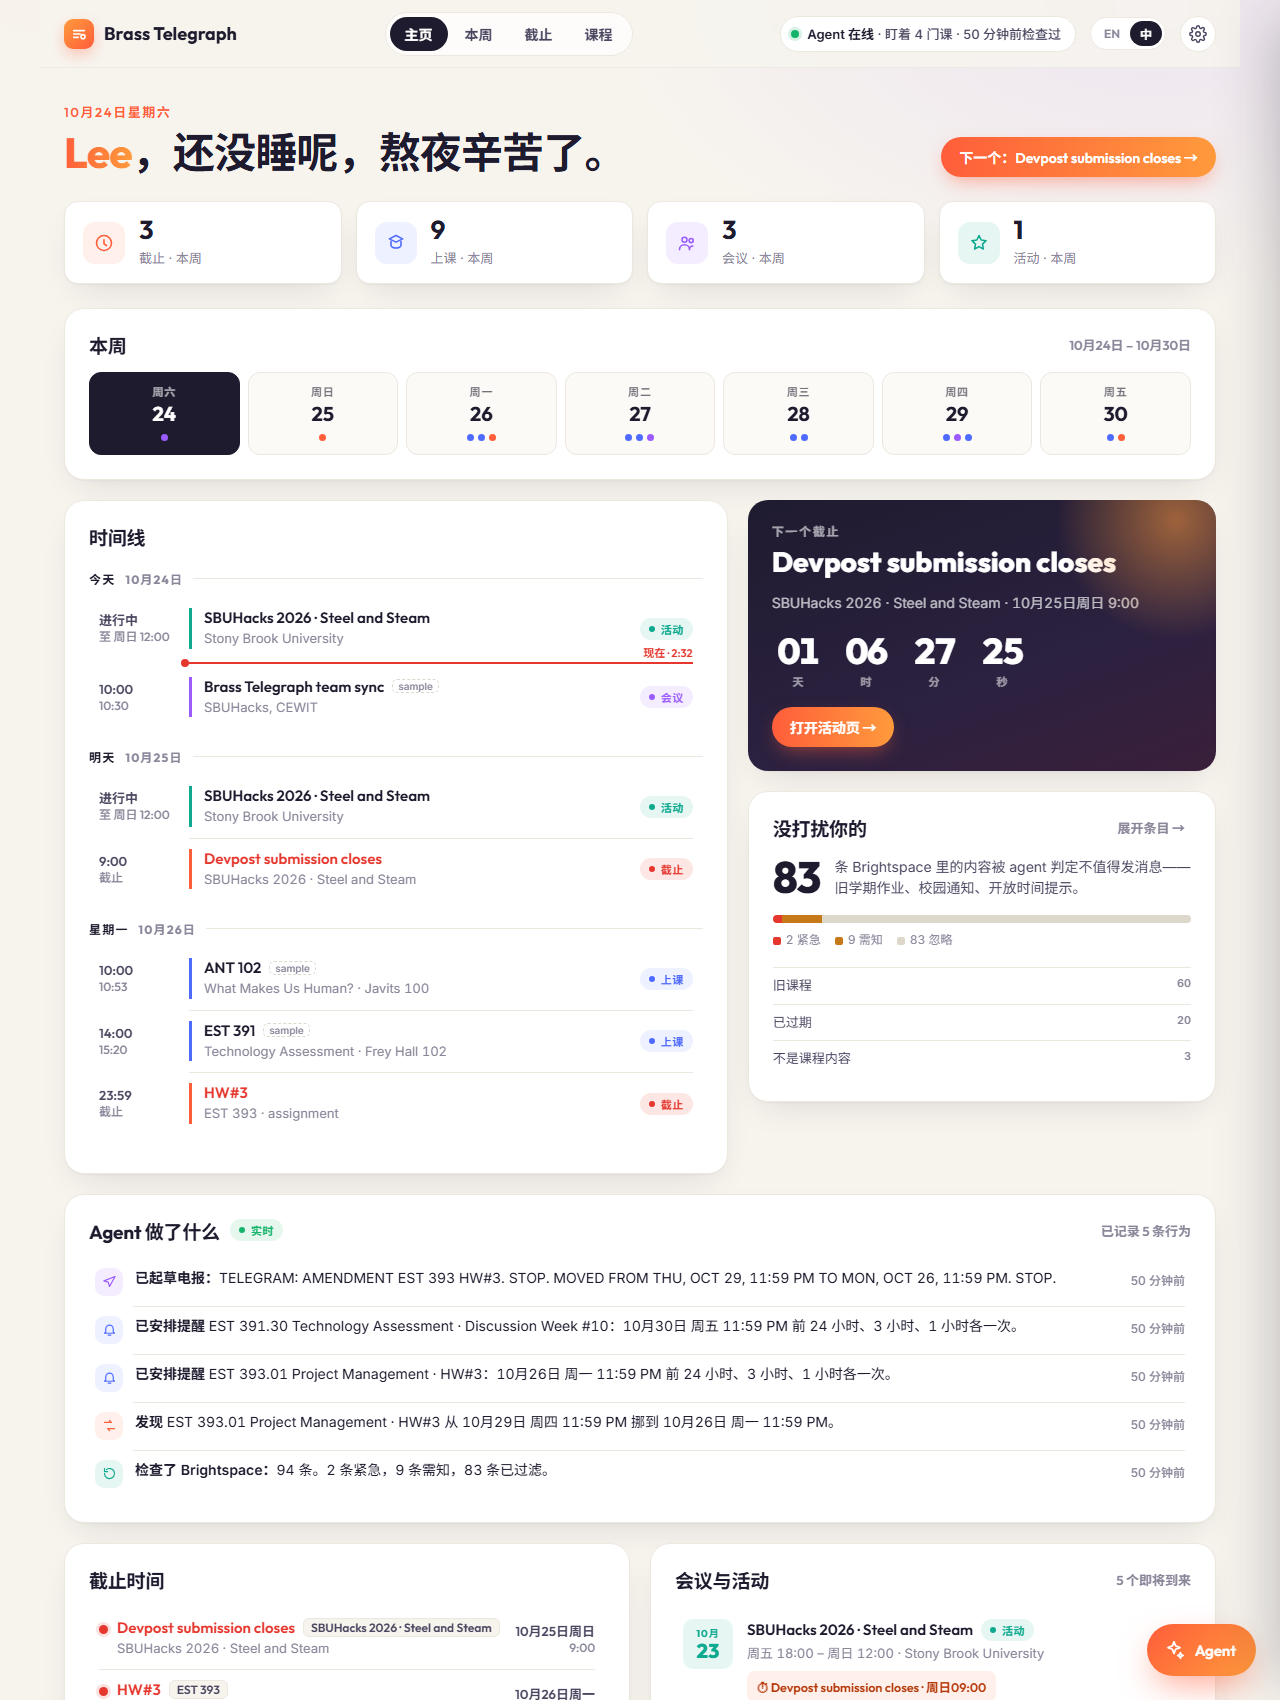
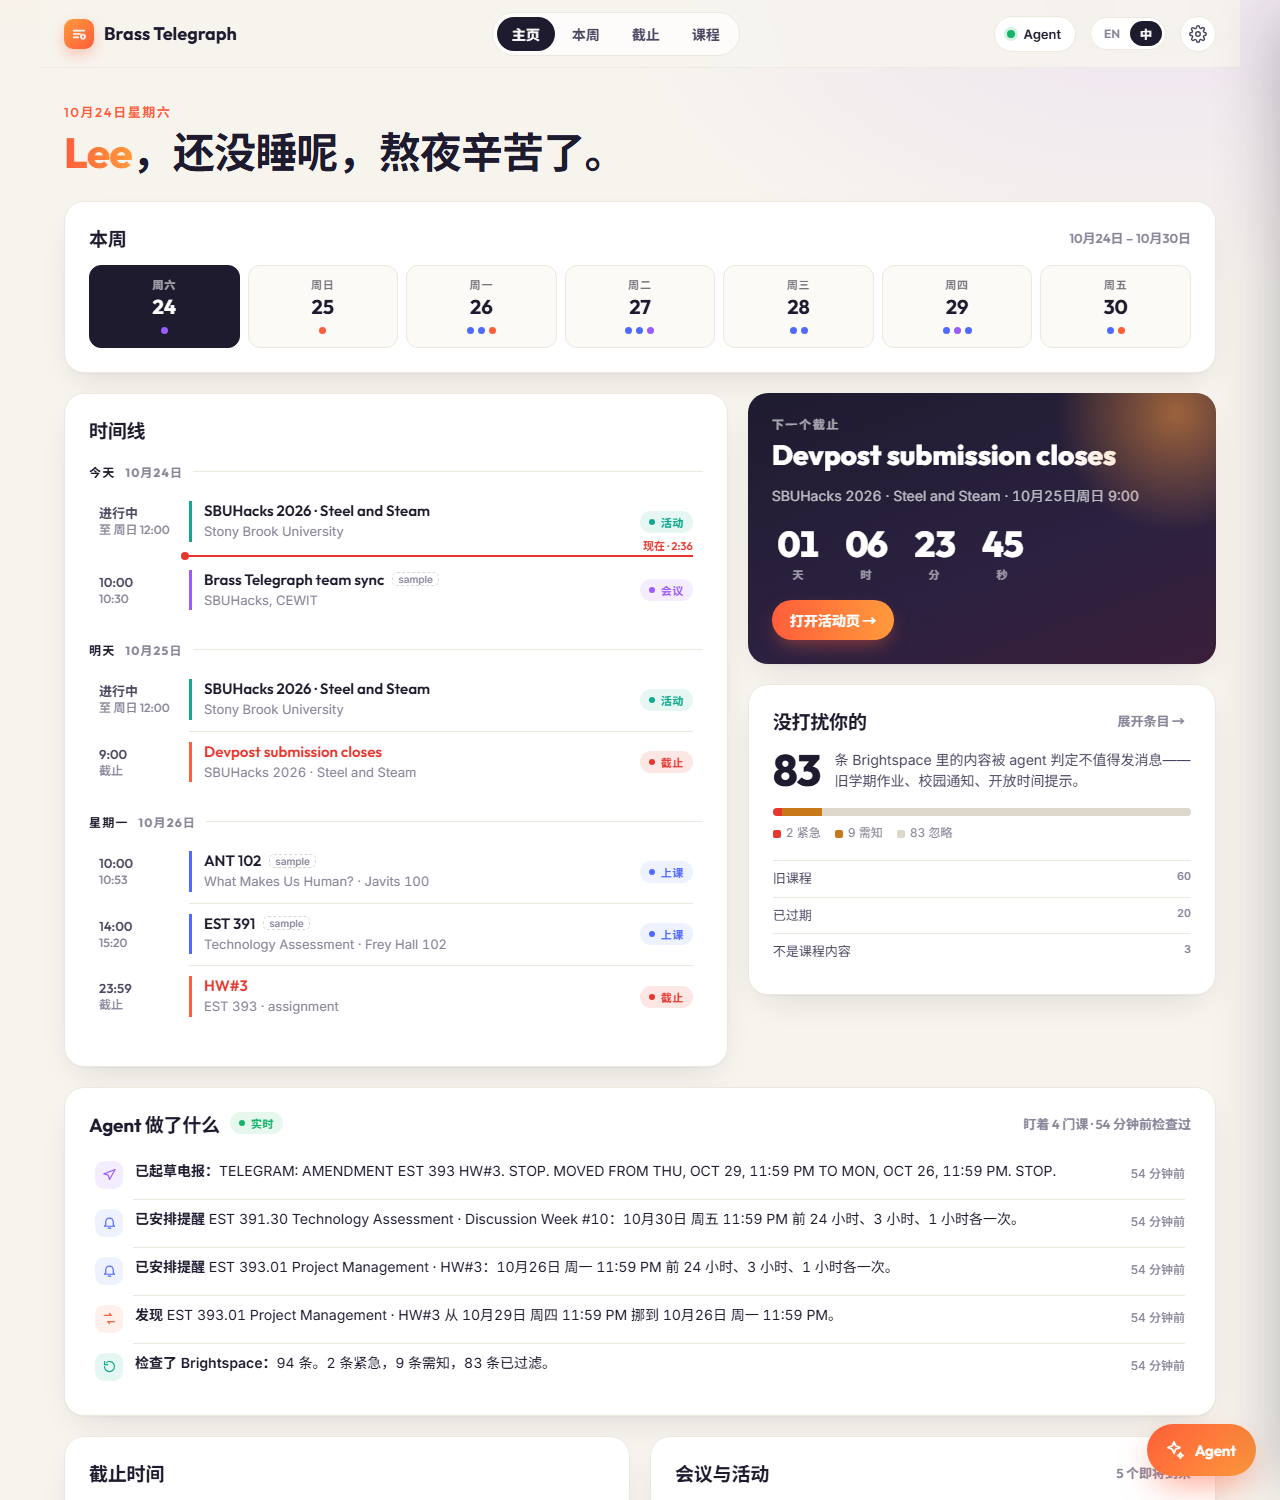
Stats move to Week tab, drop next button, minimal agent pill, per-course view, home deadlines = this week

diff --git a/web/index.html b/web/index.html
@@ -41,7 +41,7 @@ textarea, input { font-family: var(--sans); }
 .tab { padding: 7px 15px; border-radius: 999px; font: 600 14px var(--disp); color: var(--ink-2); transition: background .15s, color .15s; }
 .tab:hover { color: var(--ink); }
 .tab.on { background: var(--ink); color: #fff; }
-.status { display: inline-flex; align-items: center; gap: 8px; height: 36px; padding: 0 14px 0 10px; border-radius: 999px; background: #fff; border: 1px solid var(--line); font: 500 13px var(--sans); color: var(--ink-2); white-space: nowrap; }
+.status { display: inline-flex; align-items: center; gap: 8px; height: 36px; padding: 0 14px 0 12px; border-radius: 999px; background: #fff; border: 1px solid var(--line); font: 500 13px var(--sans); color: var(--ink-2); white-space: nowrap; cursor: default; }
 .status i { width: 8px; height: 8px; border-radius: 50%; background: var(--ok); box-shadow: 0 0 0 3px rgba(22,179,106,.18); animation: pulse-g 2s ease-in-out infinite; }
 .status.off i { background: var(--need); box-shadow: 0 0 0 3px rgba(199,121,26,.18); animation: none; }
 @keyframes pulse-g { 50% { box-shadow: 0 0 0 6px rgba(22,179,106,0); } }
@@ -263,13 +263,26 @@ textarea, input { font-family: var(--sans); }
 .legend .g { border: 1.5px dashed var(--ink-2); background: none; }
 
 /* courses */
-.courses { display: grid; grid-template-columns: repeat(auto-fill, minmax(260px, 1fr)); gap: 14px; }
-.course { padding: 18px; border-radius: var(--r-sm); border: 1px solid var(--line); background: var(--bg-2); }
-.course h3 { font: 700 17px var(--disp); }
-.course p { margin: 2px 0 12px; color: var(--muted); font-size: 13px; }
-.course .next { font-size: 13.5px; color: var(--ink-2); }
-.course .next b { color: var(--ink); font-weight: 600; }
-.course .n { float: right; font: 700 20px var(--disp); color: var(--accent); }
+.courses { display: grid; grid-template-columns: repeat(auto-fill, minmax(320px, 1fr)); gap: 16px; }
+.course { padding: 20px; border-radius: var(--r-sm); border: 1px solid var(--line); background: var(--bg-2); display: flex; flex-direction: column; gap: 12px; }
+.course-h { display: flex; align-items: flex-start; justify-content: space-between; gap: 12px; }
+.course h3 { font: 700 20px var(--disp); }
+.course p { margin: 2px 0 0; color: var(--muted); font-size: 13px; }
+.course .n { min-width: 34px; height: 34px; padding: 0 10px; border-radius: 17px; display: grid; place-items: center; font: 700 15px var(--disp); color: var(--accent); background: var(--deadline-bg); }
+.course-meta { display: flex; flex-direction: column; gap: 6px; font-size: 13px; color: var(--ink-2); }
+.course-meta span { display: inline-flex; align-items: center; gap: 6px; }
+.course-meta svg { color: var(--c, var(--class)); }
+.course-meta [data-kind="meeting"] svg { color: var(--meeting); }
+.course-dl { display: flex; flex-direction: column; border-top: 1px solid var(--line); }
+.cdl { display: grid; grid-template-columns: 14px 1fr auto; align-items: center; gap: 10px; padding: 9px 0; border-bottom: 1px solid var(--line); font-size: 14px; }
+.cdl:last-child { border-bottom: 0; }
+.cdl i { width: 8px; height: 8px; border-radius: 50%; background: var(--line-2); }
+.cdl.urgent i { background: var(--urgent); } .cdl.urgent span { color: var(--urgent); }
+.cdl span { font: 600 14px var(--disp); min-width: 0; } .cdl span small { display: block; font: 400 12px var(--sans); color: var(--muted); }
+.cdl b { text-align: right; font: 600 13px var(--disp); color: var(--ink-2); } .cdl b small { display: block; font: 400 11.5px var(--sans); color: var(--muted); }
+.cdl:hover span { text-decoration: underline; }
+.course-foot { margin: 0; font-size: 12.5px; color: var(--muted); }
+.muted { color: var(--muted); font-size: 13px; margin: 0; }
 
 /* setup */
 .steps { display: grid; gap: 10px; margin: 6px 0 16px; counter-reset: s; }
@@ -384,10 +397,7 @@ body.drawer-open .drawer { transform: none; } body.drawer-open .scrim { opacity:
       <h1 id="greeting"></h1>
       <p id="summary"></p>
     </div>
-    <a class="btn" href="#" id="openNext" target="_blank" rel="noopener"></a>
   </section>
-
-  <div class="stats" id="stats"></div>
 
   <section class="view" id="view-today">
     <div class="grid">
@@ -404,6 +414,7 @@ body.drawer-open .drawer { transform: none; } body.drawer-open .scrim { opacity:
   </section>
 
   <section class="view" id="view-week" hidden>
+    <div class="stats" id="stats"></div>
     <div class="card"><div class="card-h"><h2 data-i18n="h.weekview">Week view</h2><span class="more" id="weekRange2"></span></div><div class="wkwrap" id="wkwrap"><div class="wk" id="wk"></div></div>
       <div class="legend" id="legend"></div></div>
   </section>
@@ -497,7 +508,7 @@ const I18N = {
     "feed.n": "{n} actions logged", "quiet.text": "items in your Brightspace feed the agent judged not worth a message — old-semester work, campus notices, availability windows.", "quiet.show": "Show items →", "quiet.hide": "Hide ↑", "quiet.more": "…and {n} more",
     "q.urgent": "urgent", "q.need": "need-to-know", "q.ignore": "ignored",
     "ag.n": "{n} upcoming", "ag.flag": "⚠ Overlaps {t} — agent flagged this", "mile": "⏱ {t}",
-    "legend.sugg": "Agent suggestion — click to accept", "wk.sugg": "suggested", "course.next": "Next:",
+    "legend.sugg": "Agent suggestion — click to accept", "wk.sugg": "suggested", "course.next": "Next:", "course.notime": "No class time yet — tell the agent", "course.nodue": "Nothing due", "course.ignored": "{n} old or past items filtered out",
     "sugg.title": "Work on {t}", "sugg.note": "Agent suggestion · 2 h before it's due {d}",
     "ans.start": "Start with <b>{t}</b> ({c}) — {r}. Then {rest}.", "ans.clear": "you're clear", "ans.none": "Nothing is due — you're clear.", "ans.by": "<b>{t}</b> by {d}",
     "ans.free": "I found {n} free 2-hour slots before your deadlines, e.g. <b>{d}</b> for {t}. They're the dashed blocks in Week view — click to accept.", "ans.nofree": "No free 2-hour slots found before the next deadlines.",
@@ -539,7 +550,7 @@ const I18N = {
     "feed.n": "已记录 {n} 条行为", "quiet.text": "条 Brightspace 里的内容被 agent 判定不值得发消息——旧学期作业、校园通知、开放时间提示。", "quiet.show": "展开条目 →", "quiet.hide": "收起 ↑", "quiet.more": "…还有 {n} 条",
     "q.urgent": "紧急", "q.need": "需知", "q.ignore": "忽略",
     "ag.n": "{n} 个即将到来", "ag.flag": "⚠ 与 {t} 重叠——agent 已标记", "mile": "⏱ {t}",
-    "legend.sugg": "Agent 建议——点击接受", "wk.sugg": "建议", "course.next": "下一个：",
+    "legend.sugg": "Agent 建议——点击接受", "wk.sugg": "建议", "course.next": "下一个：", "course.notime": "还没有上课时间——告诉 agent", "course.nodue": "没有待办", "course.ignored": "已过滤 {n} 条旧的或过期的内容",
     "sugg.title": "做 {t}", "sugg.note": "Agent 建议 · 截止（{d}）前留 2 小时",
     "ans.start": "先做 <b>{t}</b>（{c}）——{r}。然后 {rest}。", "ans.clear": "就没别的了", "ans.none": "没有要交的——你是空的。", "ans.by": "<b>{t}</b>（{d} 前）",
     "ans.free": "我在截止前找到 {n} 段空闲的 2 小时，比如 <b>{d}</b> 做 {t}。就是周视图里的虚线块，点一下接受。", "ans.nofree": "下一个截止前没有空闲的 2 小时。",
@@ -676,16 +687,17 @@ function renderHero(items) {
   const c = k => wk.filter(i => i.kind === k).length, dl = wk.filter(i => i.kind === "deadline");
   const urgent = dl.filter(i => i.tri?.level === "urgent").length, ignored = state.triage.filter(x => x.level === "ignore").length;
   $("summary").hidden = true;
-  const next = items.find(i => i.start >= n && i.link && i.kind !== "focus");
-  const a = $("openNext"); if (next) { a.href = next.link; a.textContent = t("next", { t: next.title }); a.hidden = false; } else a.hidden = true;
   $("stats").innerHTML = [["deadline", dl.length], ["class", c("class")], ["meeting", c("meeting")], ["event", c("event")]]
     .map(([k, v]) => `<div class="stat" data-kind="${k}"><span class="dot">${kicon(k)}</span><span><span class="num">${v}</span><small>${t("stat." + k)} · ${t("stat.days")}</small></span></div>`).join("");
   const courses = new Set(state.items.filter(i => /^[A-Z]{3}\s\d{3}.*Fall 2026/.test(i.course)).map(i => code(i.course))).size;
   const last = state.agentLog.find(e => e.type === "poll");
   const ago = last ? Math.max(0, Math.round((n - Date.parse(last.at)) / 60000)) : null;
   const connected = !!state.setup?.ical;
+  const agoTxt = ago === null ? "" : ago < 1 ? t("just now") : ago < 60 ? t("min ago", { n: ago }) : t("h ago", { n: Math.round(ago / 60) });
   $("status").className = "status" + (connected ? "" : " off");
-  $("status").innerHTML = `<i></i><span><b>${t(connected ? "status.online" : "status.off")}</b><span class="hide-m">${connected ? t("status.watch", { n: courses }) : ""}${ago !== null ? t("status.checked", { t: ago < 1 ? t("just now") : ago < 60 ? t("min ago", { n: ago }) : t("h ago", { n: Math.round(ago / 60) }) }) : ""}</span></span>`;
+  $("status").title = `${t(connected ? "status.online" : "status.off")}${connected ? t("status.watch", { n: courses }) : ""}${ago !== null ? t("status.checked", { t: agoTxt }) : ""}`;
+  $("status").innerHTML = `<i></i><b>Agent</b>`;
+  $("feedCount").textContent = `${connected ? t("status.watch", { n: courses }).replace(/^ · /, "") : t("status.off")}${ago !== null ? t("status.checked", { t: agoTxt }) : ""}`;
 }
 function itemHtml(i) {
   const n = now(), u = i.kind === "deadline" && i.tri?.level === "urgent" ? 1 : 0, past = i.end < n && !i.ongoing;
@@ -732,7 +744,6 @@ function tick() {
 }
 function renderFeed() {
   const n = now(), log = state.agentLog.slice(0, 8);
-  $("feedCount").textContent = t("feed.n", { n: state.agentLog.length });
   if (!log.length) { $("feed").innerHTML = emptyHtml("empty.feed", "empty.feed.sub"); return; }
   const rel = ms => { const m = Math.round((n - ms) / 60000); return m < 1 ? t("just now") : m < 60 ? t("min ago", { n: m }) : m < 1440 ? t("h ago", { n: Math.round(m / 60) }) : fmt(ms, { month: "short", day: "numeric" }); };
   $("feed").innerHTML = log.map(e => `<div class="fe" data-t="${e.type}"><span class="ic">${kicon(e.type)}</span><p>${feedText(e)}</p><time>${rel(Date.parse(e.at))}</time></div>`).join("");
@@ -784,8 +795,9 @@ function dlHtml(i) {
     ${i.link ? `<a class="cover" href="${esc(i.link)}" target="_blank" rel="noopener" aria-label="${esc(i.title)}"></a>` : ""}</div>`;
 }
 function renderDeadlines(items) {
-  const list = items.filter(i => i.kind === "deadline" && i.start >= now() && visible(i));
-  $("deadlines").innerHTML = list.slice(0, 5).map(dlHtml).join("") || emptyHtml("empty.dl", "empty.dl.sub");
+  const n = now(), week = etMidnight(n) + 7 * D;
+  const list = items.filter(i => i.kind === "deadline" && i.start >= n);
+  $("deadlines").innerHTML = list.filter(i => i.start < week).map(dlHtml).join("") || emptyHtml("empty.dl", "empty.dl.sub");
   $("deadlinesAll").innerHTML = list.map(dlHtml).join("") || emptyHtml("empty.dl", "empty.dl.sub");
 }
 function renderAgenda(items) {
@@ -841,14 +853,29 @@ function renderWeekView(items) {
   $("wk").innerHTML = head + allday + body + cols.join("");
   const wrap = $("wkwrap"); if (wrap && !wrap.dataset.scrolled) { wrap.scrollTop = (8 - H0) * PX; wrap.dataset.scrolled = "1"; }
 }
+/* One card per current course: class times, every upcoming deadline, and what the agent filtered out for it. */
 function renderCourses() {
-  const m = new Map();
-  for (const i of state.items) if (/^[A-Z]{3}\s\d{3}/.test(i.course) && i.isDue && Date.parse(i.due) >= now() && triOf(i.uid)?.level !== "ignore") {
-    const e = m.get(i.course) || { n: 0, next: null }; e.n++; if (!e.next || Date.parse(i.due) < Date.parse(e.next.due)) e.next = i; m.set(i.course, e);
+  const n = now(), m = new Map();
+  for (const i of state.items) {
+    if (!/^[A-Z]{3}\s\d{3}.*Fall 2026/.test(i.course)) continue;
+    const e = m.get(i.course) || { due: [], ignored: 0 };
+    const tr = triOf(i.uid);
+    if (tr?.level === "ignore") e.ignored++;
+    else if (i.isDue && Date.parse(i.due) >= n) e.due.push({ ...i, tri: tr });
+    m.set(i.course, e);
   }
-  const cls = state.schedule?.classes || [];
-  $("courses").innerHTML = [...m].sort().map(([c, e]) => { const k = cls.find(x => x.course === c);
-    return `<div class="course"><span class="n">${e.n}</span><h3>${esc(code(c))}</h3><p>${esc(courseName(c))}${k ? ` · ${k.days.join("/")} ${k.start}–${k.end}` : ""}</p><div class="next">${t("course.next")} <b>${esc(e.next.title)}</b> · ${esc(fmt(Date.parse(e.next.due), { weekday: "short", month: "short", day: "numeric" }))}</div></div>`; }).join("") || emptyHtml("empty.courses", "");
+  const cls = state.schedule?.classes || [], mt = (state.schedule?.meetings || []).filter(x => x.course);
+  const KT = { assignment: lang === "zh" ? "作业" : "assignment", discussion: lang === "zh" ? "讨论" : "discussion", quiz: lang === "zh" ? "测验" : "quiz", exam: lang === "zh" ? "考试" : "exam" };
+  $("courses").innerHTML = [...m].sort().map(([c, e]) => {
+    const k = cls.find(x => x.course === c), meet = mt.filter(x => x.course === c && etToMs(x.start) >= n);
+    e.due.sort((a, b) => Date.parse(a.due) - Date.parse(b.due));
+    return `<div class="course" data-kind="class">
+      <div class="course-h"><div><h3>${esc(code(c))}</h3><p>${esc(courseName(c))}</p></div><span class="n">${e.due.length}</span></div>
+      <div class="course-meta">${k ? `<span>${kicon("class").replace("<svg", '<svg width="14" height="14"')} ${k.days.map(d => lang === "zh" ? "周" + "日一二三四五六"["Sun Mon Tue Wed Thu Fri Sat".split(" ").indexOf(d)] : d).join(" / ")} ${k.start}–${k.end}${k.location ? " · " + esc(k.location) : ""}${k.sample ? ' <span class="sample">sample</span>' : ""}</span>` : `<span class="muted">${t("course.notime")}</span>`}
+        ${meet.map(x => `<span data-kind="meeting">${kicon("meeting").replace("<svg", '<svg width="14" height="14"')} ${esc(x.title)} · ${esc(fmt(etToMs(x.start), { weekday: "short", hour: "numeric", minute: "2-digit" }))}</span>`).join("")}</div>
+      <div class="course-dl">${e.due.length ? e.due.map(d => { const ms = Date.parse(d.due), u = d.tri?.level === "urgent"; return `<a class="cdl ${u ? "urgent" : ""}" href="${esc(d.link || "#")}" target="_blank" rel="noopener"><i></i><span>${esc(d.title)}<small>${esc(KT[d.kind] || d.kind)}</small></span><b>${esc(fmt(ms, { month: "short", day: "numeric" }))}<small>${timeOf(ms)}</small></b></a>`; }).join("") : `<p class="muted">${t("course.nodue")}</p>`}</div>
+      ${e.ignored ? `<p class="course-foot">${t("course.ignored", { n: e.ignored })}</p>` : ""}
+    </div>`; }).join("") || emptyHtml("empty.courses", "");
 }
 function renderSetup() {
   const s = state.setup || {};
